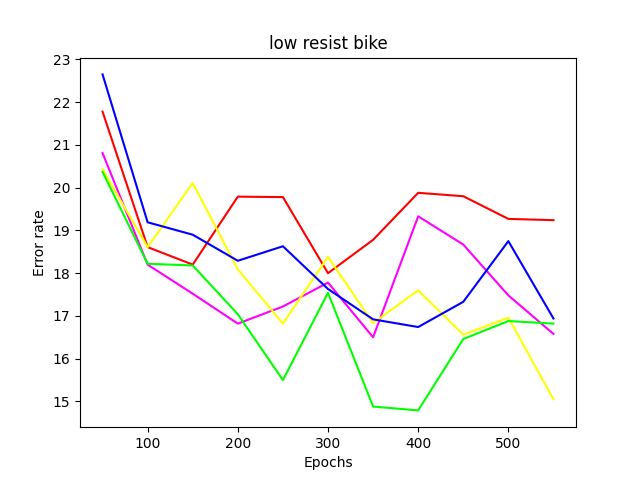
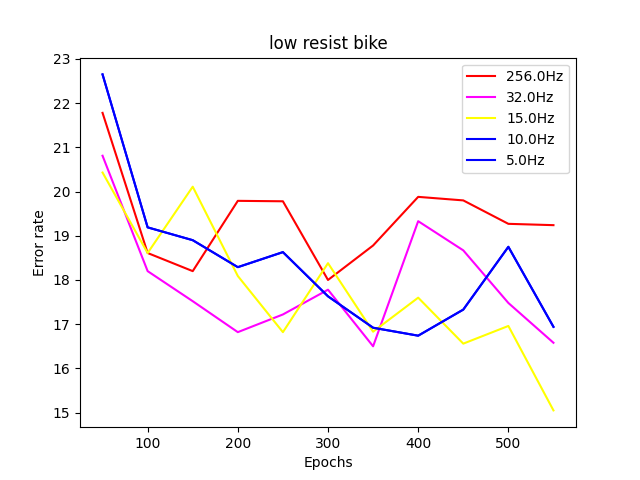
519

diff --git a/CNN_Recurrent.py b/CNN_Recurrent.py
@@ -337,7 +337,7 @@ def dataloaders(rcnn, ppg, target, batch_size):
 # In[ ]:
 
 
-def train(epochs, batch_size, seq_len, rcnn, trainloader, optimizer, loss_func):
+def train(epochs, batch_size, seq_len, rcnn, trainloader, optimizer, loss_func, error_msg, exer, frequency):
     num_epochs = epochs
 
     total_loss = []
@@ -369,10 +369,21 @@ def train(epochs, batch_size, seq_len, rcnn, trainloader, optimizer, loss_func):
                       (epoch + 1, num_epochs, i + 1, running_loss / 10))
                 total_loss.append(running_loss/10)
                 running_loss = 0.0
+        if epoch%20==0:
+            error = test_rcnn(batch_size, seq_len, rcnn, testloader, max_y)
+        
+            print("Error: " +str(error))
 
+            error_msg['hr_errors'].append({
+            'exercise': str(exer),
+            'batch_size': str(batch_size),
+            'frequency': str(frequency)+'Hz',
+            'error': str(error)
+            })
+            
     print('Finished Training...')
     
-    return rcnn
+    return error_msg
 
 
 # ## Test RCNN for HR Error Rate
@@ -456,75 +467,74 @@ fs = 256.0
 dwns_factor = [fs//256.0, fs//30.0, fs//15.0, fs//10.0, fs//5.0]
 
 
-epochs = [i for i in range(10,600,20)]
+epoch = 600
 # File Directory for data
 fileDir='./Data/wrist'
 
 downsample=True
 error_msg = {}
 error_msg['hr_errors'] = []
-for epoch in epochs:
-    for exer in exercise:
-        for d in dwns_factor:
-            # Load Data
-            PPG, ECG = load_data(fileDir, exer)
+for exer in exercise:
+    for d in dwns_factor:
+        # Load Data
+        PPG, ECG = load_data(fileDir, exer)
             # Preprocess Data
-            d = int(d)
+        d = int(d)
 
-            if d == 1:
-              downsample == False
-            else:
-              downsample == True
+        if d == 1:
+          downsample == False
+        else:
+          downsample == True
 
-            ppg, ecg = preprocess_PPG_ECG(PPG, ECG, downsample=downsample, ds_factor=d)
+        ppg, ecg = preprocess_PPG_ECG(PPG, ECG, downsample=downsample, ds_factor=d)
 
             # Fix batching as dataset is not balanced
             # Can choose any of the values in the comments - this will affect results
 
-            if exer == 'high':  # 28, 30, 35, 36, 42, 45
-              batch_size = 28 
-            elif exer == 'low': # 34, 51
-              batch_size = 34
-            elif exer == 'run': # 26, 28, 52, 56
-              batch_size = 28
-            else:               # 37, 59
-              batch_size = 37
+        if exer == 'high':  # 28, 30, 35, 36, 42, 45
+          batch_size = 28 
+        elif exer == 'low': # 34, 51
+          batch_size = 34
+        elif exer == 'run': # 26, 28, 52, 56
+          batch_size = 28
+        else:               # 37, 59
+          batch_size = 37
 
 
-            seq_len = len(ppg[0,:])
+        seq_len = len(ppg[0,:])
 
             # Get ECG HR Ground Truth
-            ecg_groundTruth, max_y =  gt_ECG(ecg)
+        ecg_groundTruth, max_y =  gt_ECG(ecg)
 
-            # Call RCNN Model
-            # You can specify Conv-Pooling params in call
-            # Your choice should be dependent on  seq_len
-            rcnn = call_RCNN(seq_len, batch_size)
+        # Call RCNN Model
+        # You can specify Conv-Pooling params in call
+        # Your choice should be dependent on  seq_len
+        rcnn = call_RCNN(seq_len, batch_size)
+        # Set up data into train/test splits with targets
+        optimizer, loss_func, trainloader, testloader = dataloaders(rcnn, ppg, ecg_groundTruth, batch_size)
+        # Train the model
+        error_msg =  train(epoch, batch_size, seq_len, rcnn, trainloader, optimizer, loss_func, error_msg, exer, frequency=fs//d)
+        # Test the model/estimate HRE
+        # error = test_rcnn(batch_size, seq_len, trained_rcnn, testloader, max_y)
+        
+        # print("Error: " +str(error))
 
-            # Set up data into train/test splits with targets
-            optimizer, loss_func, trainloader, testloader = dataloaders(rcnn, ppg, ecg_groundTruth, batch_size)
-            # Train the model
-            trained_rcnn =  train(epoch, batch_size, seq_len, rcnn, trainloader, optimizer, loss_func)
-            # Test the model/estimate HRE
-            error = test_rcnn(batch_size, seq_len, trained_rcnn, testloader, max_y)
-            print("Error: " +str(error))
+        # error_msg['hr_errors'].append({
+        # 'exercise': str(exer),
+        # 'batch_size': str(batch_size),
+        # 'frequency': str(fs//d)+'Hz',
+        # 'error': str(error)
+        # })
+    
+        json = js.dumps(error_msg)
+        f = open('./Results/'+'errors.json','w')
+        f.write(json)
+        f.close()
 
-            error_msg['hr_errors'].append({
-            'exercise': str(exer),
-            'batch_size': str(batch_size),
-            'frequency': str(fs//d)+'Hz',
-            'error': str(error)
-            })
-
-        # json = js.dumps(error_msg)
-        # f = open('./Results/'+str(256.0//int(d))+str(epoch)+'Hz_errors.json','w')
-        # f.write(json)
-        # f.close()
-
-json = js.dumps(error_msg)
-f = open('./Results/'+str(256.0//int(d))+str(epoch)+'Hz_errors.json','w')
-f.write(json)
-f.close()
+# json = js.dumps(error_msg)
+# f = open('./Results/'+str(256.0//int(d))+str(epoch)+'Hz_errors.json','w')
+# f.write(json)
+# f.close()
 
 # ## Load Back Results
 

diff --git a/data/WristSense/CNNs_HAR_and_HR/Results/plot.py b/data/WristSense/CNNs_HAR_and_HR/Results/plot.py
@@ -61,15 +61,16 @@ with open('5.0550Hz_errors.json', newline='') as jsonfile:
             else:
                 walk['5.0Hz'].append(round(float(result["error"]),2))
 
-    # plt.title("High resist bike")
-    # plt.ylabel("Error rate")
-    # plt.xlabel("Epochs")
-    # plt.plot(epochs,high["256.0Hz"][1:],color=(255/255,0/255,0/255), label='256.0Hz')
-    # plt.plot(epochs,high["32.0Hz"][1:],color=(255/255,0/255,255/255), label='32.0Hz')
-    # plt.plot(epochs,high["15.0Hz"][1:],color=(255/255,255/255,0/255) label='15.0Hz')
-    # plt.plot(epochs,high["10.0Hz"][1:],color=(0/255,0/255,255/255)label='10.0Hz')
-    # plt.plot(epochs,high["10.0Hz"][1:],color=(0/255,0/255,255/255)label=',5.0Hz')
-    # plt.savefig("high.png")
+    plt.title("High resist bike")
+    plt.ylabel("Error rate")
+    plt.xlabel("Epochs")
+    plt.plot(epochs,high["256.0Hz"][1:],color=(255/255,0/255,0/255), label='256.0Hz')
+    plt.plot(epochs,high["32.0Hz"][1:],color=(255/255,0/255,255/255), label='32.0Hz')
+    plt.plot(epochs,high["15.0Hz"][1:],color=(255/255,255/255,0/255), label='15.0Hz')
+    plt.plot(epochs,high["10.0Hz"][1:],color=(0/255,0/255,255/255),label='10.0Hz')
+    plt.plot(epochs,high["10.0Hz"][1:],color=(0/255,0/255,255/255),label='5.0Hz')
+    plt.legend(loc = 'upper right')
+    plt.savefig("high.png")
 
 
 
@@ -78,9 +79,10 @@ with open('5.0550Hz_errors.json', newline='') as jsonfile:
     # plt.xlabel("Epochs")
     # plt.plot(epochs,low["256.0Hz"][1:],color=(255/255,0/255,0/255), label='256.0Hz')
     # plt.plot(epochs,low["32.0Hz"][1:],color=(255/255,0/255,255/255), label='32.0Hz')
-    # plt.plot(epochs,low["15.0Hz"][1:],color=(255/255,255/255,0/255) label='15.0Hz')
-    # plt.plot(epochs,low["10.0Hz"][1:],color=(0/255,0/255,255/255)label='10.0Hz')
-    # plt.plot(epochs,low["10.0Hz"][1:],color=(0/255,0/255,255/255)label=',5.0Hz')
+    # plt.plot(epochs,low["15.0Hz"][1:],color=(255/255,255/255,0/255), label='15.0Hz')
+    # plt.plot(epochs,low["10.0Hz"][1:],color=(0/255,0/255,255/255),label='10.0Hz')
+    # plt.plot(epochs,low["10.0Hz"][1:],color=(0/255,0/255,255/255),label='5.0Hz')
+    # plt.legend(loc = 'upper right')
     # plt.savefig("low.png")
 
 
@@ -89,20 +91,22 @@ with open('5.0550Hz_errors.json', newline='') as jsonfile:
     # plt.xlabel("Epochs")
     # plt.plot(epochs,run["256.0Hz"][1:],color=(255/255,0/255,0/255), label='256.0Hz')
     # plt.plot(epochs,run["32.0Hz"][1:],color=(255/255,0/255,255/255), label='32.0Hz')
-    # plt.plot(epochs,run["15.0Hz"][1:],color=(255/255,255/255,0/255) label='15.0Hz')
-    # plt.plot(epochs,run["10.0Hz"][1:],color=(0/255,0/255,255/255)label='10.0Hz')
-    # plt.plot(epochs,run["10.0Hz"][1:],color=(0/255,0/255,255/255)label=',5.0Hz')
+    # plt.plot(epochs,run["15.0Hz"][1:],color=(255/255,255/255,0/255), label='15.0Hz')
+    # plt.plot(epochs,run["10.0Hz"][1:],color=(0/255,0/255,255/255),label='10.0Hz')
+    # plt.plot(epochs,run["10.0Hz"][1:],color=(0/255,0/255,255/255),label='5.0Hz')
+    # plt.legend(loc = 'upper right')
     # plt.savefig("run.png")
 
 
-    plt.title("walk")
-    plt.ylabel("Error rate")
-    plt.xlabel("Epochs")
-    plt.plot(epochs,walk["256.0Hz"][1:],color=(255/255,0/255,0/255),label='256.0Hz')
-    plt.plot(epochs,walk["32.0Hz"][1:],color=(255/255,0/255,255/255),label='32.0Hz')
-    plt.plot(epochs,walk["15.0Hz"][1:],color=(255/255,255/255,0/255),label='15.0Hz')
-    plt.plot(epochs,walk["10.0Hz"][1:],color=(0/255,0/255,255/255),label='10.0Hz')
-    plt.plot(epochs,walk["10.0Hz"][1:],color=(0/255,0/255,255/255),label=',5.0Hz')
-    plt.savefig("walk.png")
+    # plt.title("walk")
+    # plt.ylabel("Error rate")
+    # plt.xlabel("Epochs")
+    # plt.plot(epochs,walk["256.0Hz"][1:],color=(255/255,0/255,0/255),label='256.0Hz')
+    # plt.plot(epochs,walk["32.0Hz"][1:],color=(255/255,0/255,255/255),label='32.0Hz')
+    # plt.plot(epochs,walk["15.0Hz"][1:],color=(255/255,255/255,0/255),label='15.0Hz')
+    # plt.plot(epochs,walk["10.0Hz"][1:],color=(0/255,0/255,255/255),label='10.0Hz')
+    # plt.plot(epochs,walk["10.0Hz"][1:],color=(0/255,0/255,255/255),label='5.0Hz')
+    # plt.legend(loc = 'upper right')
+    # plt.savefig("walk.png")
 
 
